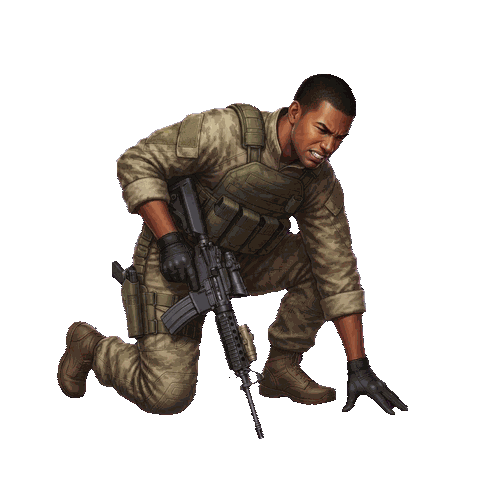
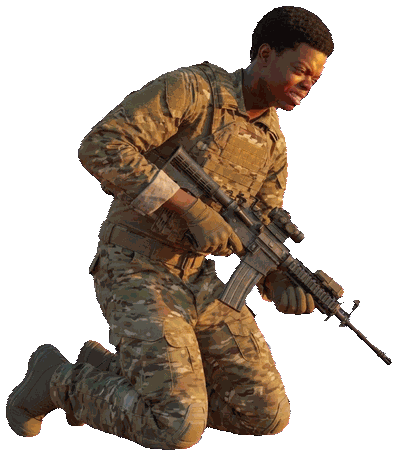
Battlefield redesign: reference-faced hero, allied team, fighter jets
Main soldier (from the creator's reference photo):
- Regenerated from the supplied facial reference: same proportions,
  almond eyes, nose shape, lips, jawline, curly hair, natural
  medium-dark skin tone rendered in realistic color.
- Helmet worn pushed back so the reference face stays fully visible
  and lit; multicam uniform, plate carrier, boots, gloves.
- CRITICAL: the hero now faces the enemy directly — three-quarter
  stance squared right, rifle raised and aimed at the opponent.
  The old camera-facing pose with a chest-carried rifle is gone.
- Defeat pose regenerated to match the new character.

Allied team (three distinct characters, not repeated cutouts):
- Kneeling overwatch with AK-pattern rifle (mid distance),
  standing guard with boonie hat and battle rifle (far, hazy),
  advancing soldier with carbine (mid-right depth).
- Varied stances, depths, depth haze, independent idle animations.

Fighter jets:
- Three jets crossing the sky at different heights, scales and
  speeds on looping flight paths (34s/52s/78s, staggered starts).
- Realistic metallic side-profile art, atmospheric haze with depth.
- Quiet distant jet flyby audio every ~22s (synthesized, gated on
  page visibility, respects the existing mute toggle).

Pipeline: sprite processing formalized as tools/process-sprites.py
(chroma key -> color bleed -> resize -> erode -> GLOBAL despill after
erosion -> verify zero visibly-purple pixels; the despill must run
[…]

diff --git a/docs/style.css b/docs/style.css
@@ -104,9 +104,58 @@ body {
   opacity: 0;
   pointer-events: none;
 }
-.muzzle-soldier { left: 74%; bottom: 34%; }
+.muzzle-soldier { left: 86%; bottom: 47%; }
 .muzzle-enemy  { left: 8%;  bottom: 40%; }
 .muzzle.flash { animation: muzzle-flash 0.28s ease-out both; }
+
+/* ---------- allied team (mid and far field) ----------
+   Separate characters, varied stances, depth-hazed so they read as
+   a coordinated unit around the hero without stealing focus. */
+.ally {
+  position: absolute;
+  bottom: 0;
+  pointer-events: none;
+  user-select: none;
+  -webkit-user-drag: none;
+  transform-origin: 50% 100%;
+}
+.ally-kneel {          /* mid-distance, stable firing overwatch */
+  left: 24%; bottom: 11vh; height: 30vh; z-index: 1;
+  filter: drop-shadow(0 10px 14px rgba(0,0,0,0.35)) brightness(0.94) saturate(0.82);
+  animation: ally-hold 6s ease-in-out infinite alternate;
+}
+.ally-guard {          /* far left, standing watch, hazy */
+  left: 15%; bottom: 24vh; height: 16vh; z-index: 1;
+  filter: drop-shadow(0 6px 10px rgba(0,0,0,0.3)) brightness(0.88) saturate(0.6) blur(0.6px);
+  animation: ally-scan 9s ease-in-out infinite alternate;
+}
+.ally-advance {        /* mid-right depth, advancing with weapon low-ready */
+  right: 30%; bottom: 19vh; height: 21vh; z-index: 1;
+  filter: drop-shadow(0 8px 12px rgba(0,0,0,0.32)) brightness(0.9) saturate(0.65) blur(0.4px);
+  animation: ally-move 11s ease-in-out infinite alternate;
+}
+
+/* ---------- fighter jets (2D sprites on flight paths) ---------- */
+.jet {
+  position: absolute;
+  left: 0;
+  pointer-events: none;
+  user-select: none;
+  width: 13vw;
+  filter: drop-shadow(0 4px 6px rgba(0,0,0,0.25));
+  animation: jet-cross linear infinite;
+}
+.jet-near {            /* closest: big, fast, crisp */
+  top: 9%; width: 16vw; animation-duration: 34s; animation-delay: -6s;
+}
+.jet-mid  {            /* middle distance */
+  top: 20%; width: 9vw; animation-duration: 52s; animation-delay: -31s;
+  filter: brightness(0.92) saturate(0.7) drop-shadow(0 3px 5px rgba(0,0,0,0.2));
+}
+.jet-far  {            /* far: small, hazy, slow */
+  top: 31%; width: 5vw; animation-duration: 78s; animation-delay: -58s;
+  filter: brightness(0.85) saturate(0.5) blur(0.5px);
+}
 
 /* red vignette when the player takes a hit */
 .hit-vignette {
@@ -126,7 +175,7 @@ body {
 @keyframes soldier-idle { from { transform: translateY(0); } to { transform: translateY(-1.2%); } }
 @keyframes enemy-idle   { from { transform: translateX(0) rotate(0deg); } to { transform: translateX(-1%) rotate(-0.5deg); } }
 @keyframes soldier-aim {
-  from { transform: none; } to { transform: translateY(-1.5%) scale(1.015); }
+  from { transform: none; } to { transform: translateY(-0.6%) scale(1.008); }
 }
 @keyframes soldier-recoil {
   0% { transform: translateY(-1.5%) scale(1.015); }
@@ -155,6 +204,11 @@ body {
   18% { opacity: 1; transform: scale(1.15); }
   100% { opacity: 0; transform: scale(0.9); }
 }
+@keyframes ally-hold  { from { transform: translateY(0); } to { transform: translateY(-0.8%); } }
+@keyframes ally-scan  { from { transform: translateX(0) rotate(0.3deg); } to { transform: translateX(2.2%) rotate(-0.5deg); } }
+@keyframes ally-move  { from { transform: translateX(0); } to { transform: translateX(-4.5%); } }
+@keyframes jet-cross  { from { transform: translateX(115vw); } to { transform: translateX(-35vw); } }
+
 @keyframes hit-fade {
   0% { opacity: 0; } 20% { opacity: 1; } 100% { opacity: 0; }
 }
@@ -387,6 +441,12 @@ body {
   .soldier-wrap { height: 52vh; left: -6%; }
   .enemy-wrap { height: 42vh; right: -4%; }
   .muzzle { width: 46px; height: 46px; }
+  .ally-kneel { left: 18%; bottom: 8vh; height: 22vh; }
+  .ally-guard { display: none; }
+  .ally-advance { display: none; }
+  .jet-near { width: 30vw; }
+  .jet-mid { width: 17vw; }
+  .jet-far { display: none; }
 }
 
 /* ============ additions v5: a11y, feedback, results ============ */

diff --git a/docs/game.js b/docs/game.js
@@ -66,16 +66,33 @@ const soundBtn     = document.getElementById("soundBtn");
 const AUDIO = window.MemoryRushAudio || null; // synthesized SFX; game works without it
 
 const SPRITES = {
-  soldier: "assets/soldier.png?v=4",
-  soldierDown: "assets/soldier-down.png?v=4",
-  enemy: "assets/enemy.png?v=4",
-  enemyDown: "assets/enemy-down.png?v=4",
+  soldier: "assets/soldier.png?v=5",
+  soldierDown: "assets/soldier-down.png?v=5",
+  enemy: "assets/enemy.png?v=5",
+  enemyDown: "assets/enemy-down.png?v=5",
 };
+const SCENE = [
+  "assets/ally-kneel.png?v=1",
+  "assets/ally-guard.png?v=1",
+  "assets/ally-advance.png?v=1",
+  "assets/jet.png?v=1",
+];
 let spritesPreloaded = false;
 function preloadSprites() {
   if (spritesPreloaded) return;
   spritesPreloaded = true;
   Object.keys(SPRITES).forEach(k => { const im = new Image(); im.src = SPRITES[k]; });
+  SCENE.forEach(src => { const im = new Image(); im.src = src; });
+}
+
+/* ambient jet flyby audio — quiet, infrequent, only while the page is visible */
+let jetAmbienceOn = false;
+function startJetAmbience() {
+  if (jetAmbienceOn) return;
+  jetAmbienceOn = true;
+  setInterval(() => {
+    if (!document.hidden) playSound("jetFlyby");
+  }, 22000);
 }
 
 /* runId-guarded battle timer: combat beats can never leak into the next run */
@@ -155,6 +172,7 @@ function startGame() {
   resetBattle();
   preloadSprites();
   if (AUDIO) { try { AUDIO.unlock(); } catch (e) {} } // audio must start from a user gesture
+  startJetAmbience();
   showScreen(gameScreen);
   startLevel();
 }

diff --git a/docs/index.html b/docs/index.html
@@ -17,13 +17,23 @@
   <div class="battle" aria-hidden="true">
     <div class="battle-env"></div>
     <div class="combatant-wrap soldier-wrap" id="soldierWrap">
-      <img class="combatant" id="soldierImg" src="assets/soldier.png?v=4" alt="" />
+      <img class="combatant" id="soldierImg" src="assets/soldier.png?v=5" alt="" />
       <div class="muzzle muzzle-soldier" id="muzzleSoldier"></div>
     </div>
     <div class="combatant-wrap enemy-wrap" id="enemyWrap">
-      <img class="combatant" id="enemyImg" src="assets/enemy.png?v=4" alt="" />
+      <img class="combatant" id="enemyImg" src="assets/enemy.png?v=5" alt="" />
       <div class="muzzle muzzle-enemy" id="muzzleEnemy"></div>
     </div>
+
+    <!-- allied team: separate characters at varying depths -->
+    <img class="ally ally-kneel" src="assets/ally-kneel.png?v=1" alt="" />
+    <img class="ally ally-guard" src="assets/ally-guard.png?v=1" alt="" />
+    <img class="ally ally-advance" src="assets/ally-advance.png?v=1" alt="" />
+
+    <!-- fighter jets crossing the sky -->
+    <img class="jet jet-far" src="assets/jet.png?v=1" alt="" />
+    <img class="jet jet-mid" src="assets/jet.png?v=1" alt="" />
+    <img class="jet jet-near" src="assets/jet.png?v=1" alt="" />
     <div class="hit-vignette" id="hitVignette"></div>
   </div>
 

diff --git a/docs/game-audio.js b/docs/game-audio.js
@@ -151,6 +151,27 @@ function stingWin() {
   note(784, 0.28, 0.4, "triangle", 0.22);  // G5
 }
 
+/* Distant jet flyby: a slow, quiet rumble that swells and fades. */
+function jetFlyby() {
+  if (!ready()) return;
+  const t0 = ctx.currentTime;
+  const src = ctx.createBufferSource();
+  src.buffer = noiseBuffer(3.2);
+  const lp = ctx.createBiquadFilter();
+  lp.type = "lowpass";
+  lp.frequency.setValueAtTime(320, t0);
+  lp.frequency.linearRampToValueAtTime(900, t0 + 1.6);
+  lp.frequency.linearRampToValueAtTime(300, t0 + 3.2);
+  const g = ctx.createGain();
+  g.gain.setValueAtTime(0.001, t0);
+  g.gain.linearRampToValueAtTime(0.09, t0 + 1.5);
+  g.gain.linearRampToValueAtTime(0.001, t0 + 3.2);
+  src.connect(lp).connect(g).connect(master);
+  src.start(t0);
+  src.stop(t0 + 3.3);
+  thump(48, 0.05, 0.6, 1.8);
+}
+
 function stingFail() {
   if (!ready()) return;
   note(110, 0, 0.5, "sawtooth", 0.18);
@@ -170,6 +191,6 @@ function setMuted(m) {
 function getMuted() { return muted; }
 
 window.MemoryRushAudio = {
-  unlock, shot, enemyShot, reload, stingWin, stingFail, setMuted, getMuted,
+  unlock, shot, enemyShot, reload, stingWin, stingFail, jetFlyby, setMuted, getMuted,
 };
 })();

diff --git a/tests/battle-test.js b/tests/battle-test.js
@@ -49,6 +49,12 @@ const sleep = ms => new Promise(r => setTimeout(r, ms));
   ok("game screen shown", !$("gameScreen").classList.contains("hidden"));
   ok("enemy spawned for level 1", $("enemyWrap").className.includes("spawned"));
   ok("muzzle exists for both combatants", !!$("muzzleSoldier") && !!$("muzzleEnemy"));
+  ok("three allied soldiers on the field",
+     w.document.querySelectorAll(".ally").length === 3);
+  ok("three fighter jets in the sky",
+     w.document.querySelectorAll(".jet").length === 3);
+  ok("allies are distinct files (not repeated cutouts)",
+     new Set([...w.document.querySelectorAll(".ally")].map(a => a.src)).size === 3);
 
   // --- read the L1 sequence off the tiles and answer correctly ---
   const seq = [...w.document.querySelectorAll(".tile-front")].map(t => t.textContent);

diff --git a/docs/assets/tools/process-sprites.py b/docs/assets/tools/process-sprites.py
@@ -1,0 +1,113 @@
+#!/usr/bin/env python3
+"""Memory Rush sprite pipeline: chroma-key generated art into transparent PNGs.
+
+Stages (learned the hard way, see git history):
+1. key     — pure magenta pixels -> alpha 0
+2. bleed   — opaque RGB spread into transparent pixels so the LANCZOS
+             resize cannot blend magenta RGB back into the edges
+3. resize  — LANCZOS to target size
+4. erode   — 2px alpha erosion removes the blended AA fringe ring
+5. despill — global clamp of magenta-cast RGB (r AND b above g), AFTER erosion
+6. verify  — count visibly-purple edge pixels; must be 0
+
+Usage: python3 process-sprites.py <src.png> <dst.png> <max_side_px>
+"""
+import os
+import sys
+
+from PIL import Image
+
+def key_magenta(px, w, h):
+    for y in range(h):
+        for x in range(w):
+            r, g, b, _ = px[x, y]
+            if r > 150 and b > 150 and g < 110 and abs(r - b) < 90:
+                px[x, y] = (r, g, b, 0)
+
+def bleed(px, w, h, passes=8):
+    for _ in range(passes):
+        for y in range(h):
+            for x in range(w):
+                if px[x, y][3] == 0:
+                    for dx, dy in ((1, 0), (-1, 0), (0, 1), (0, -1)):
+                        nx, ny = x + dx, y + dy
+                        if 0 <= nx < w and 0 <= ny < h:
+                            r, g, b, a = px[nx, ny]
+                            if a > 0:
+                                px[x, y] = (r, g, b, 0)
+                                break
+
+def despill_global(px, w, h):
+    """Clamp magenta-cast RGB on ANY remaining pixel (edge or interior).
+
+    Runs AFTER erosion: eroding exposes new edge pixels that were interior
+    when an edge-only pass would have run, so the pass must be global.
+    Safe for this game's palettes (camo olive/tan/brown, black rifles,
+    warm skin, grey jets: none carry r AND b above g).
+    """
+    fixed = 0
+    for y in range(h):
+        for x in range(w):
+            r, g, b, a = px[x, y]
+            if a > 0 and r > g + 8 and b > g + 8:
+                px[x, y] = (min(r, g + 9), g, min(b, g + 9), a)
+                fixed += 1
+    return fixed
+
+def erode(px, w, h, rounds=2):
+    for _ in range(rounds):
+        kill = []
+        for y in range(1, h - 1):
+            for x in range(1, w - 1):
+                if px[x, y][3] > 0 and any(px[x + dx, y + dy][3] == 0
+                                            for dx, dy in ((1, 0), (-1, 0), (0, 1), (0, -1))):
+                    kill.append((x, y))
+        for x, y in kill:
+            r, g, b, _ = px[x, y]
+            px[x, y] = (r, g, b, 0)
+
+def visibly_purple(r, g, b, a):
+    spread = max(r, g, b) - min(r, g, b)
+    return a > 0 and spread > 40 and r > g + 25 and b > g + 25
+
+def process(src, dst, max_side):
+    im = Image.open(src).convert("RGBA")
+    px = im.load()
+    w, h = im.size
+    key_magenta(px, w, h)
+    bleed(px, w, h)
+    # keep aspect ratio, cap the longest side
+    scale = max_side / max(w, h)
+    if scale < 1:
+        im = im.resize((int(w * scale), int(h * scale)), Image.LANCZOS)
+    px = im.load()
+    w, h = im.size
+    erode(px, w, h)
+    despill_global(px, w, h)
+    # auto-crop to content with a small pad
+    alpha = im.getchannel("A")
+    bbox = alpha.getbbox()
+    if bbox:
+        pad = 6
+        l, t, r, b = bbox
+        im = im.crop((max(0, l - pad), max(0, t - pad), min(w, r + pad), min(h, b + pad)))
+    q = im.quantize(colors=192, method=Image.FASTOCTREE)
+    q.save(dst, optimize=True)
+
+    # verification: zero visibly-purple pixels anywhere
+    im2 = Image.open(dst).convert("RGBA")
+    px2 = im2.load()
+    w2, h2 = im2.size
+    bad = 0
+    for y in range(h2):
+        for x in range(w2):
+            if visibly_purple(*px2[x, y]):
+                bad += 1
+    size_kb = os.path.getsize(dst) // 1024
+    status = "OK" if bad == 0 else f"FAIL ({bad} purple px)"
+    print(f"{os.path.basename(dst)}: {im.size[0]}x{im.size[1]}, {size_kb}KB, purple check: {status}")
+    return bad
+
+if __name__ == "__main__":
+    bad = process(sys.argv[1], sys.argv[2], int(sys.argv[3]))
+    sys.exit(1 if bad else 0)
